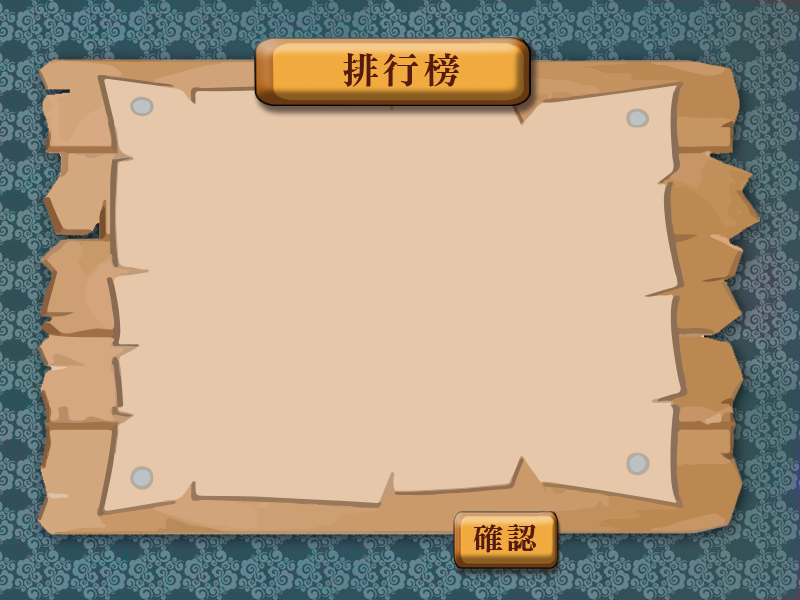
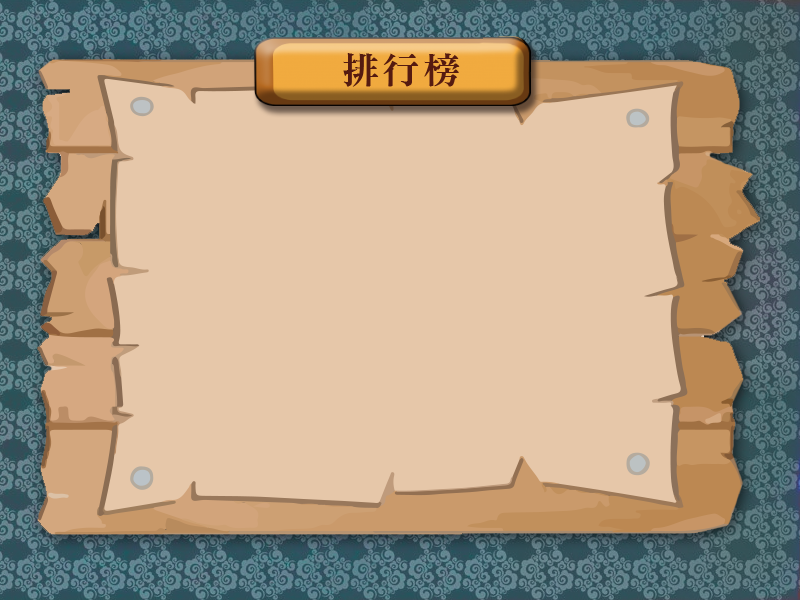
Add the button zoom in/out back and forth.

Changed region(s): [[0.5625, 0.84, 0.7188, 0.96]]

diff --git a/css/dragon.css b/css/dragon.css
@@ -201,7 +201,7 @@ input:focus{
 }
 
 .stage-rules{
-  background-image: url(../images/03-rules-background.jpg);
+  background-image: url(../images/03-rules-background.png);
 }
 
 .stage-bomb{
@@ -287,6 +287,10 @@ input:focus{
   bottom: 11px;
   width: 50px;
   cursor: pointer;
+  -webkit-animation: zoombacksmall 1.5s ease 0s;
+  animation: zoombacksmall 1.5s ease 0s;
+  -webkit-animation-iteration-count:infinite;
+  animation-iteration-count:infinite;
 }
 
 .message-text{
@@ -319,15 +323,27 @@ input:focus{
 .button-rules-enter{
   left: 259px;
   top: 515px;
-  width: 277px;
-  height: 69px;
+  width: 286px;
+  height: 79px;
+  background: url(../images/03-rules-button.png);
+  /*background-size: 100% auto;*/
+  /*background-position: center center;*/
+  -webkit-animation: zoomback 1.5s ease 0s;
+  animation: zoomback 1.5s ease 0s;
+  -webkit-animation-iteration-count:infinite;
+  animation-iteration-count:infinite;
 }
 
 .button-intro-enter{  
-  left:272px;
-  top:500px;
-  width:277px;
-  height:67px;
+  left: 272px;
+  top: 498px;
+  width: 283px;
+  height: 78px;
+  background: url(../images/01-intro-button.png);
+  -webkit-animation: zoomback 1.5s ease 0s;
+  animation: zoomback 1.5s ease 0s;
+  -webkit-animation-iteration-count:infinite;
+  animation-iteration-count:infinite;
 }
 
 .background-temp{
@@ -405,6 +421,10 @@ div[class^=bomb]{
   left: 197px;
   top: 331px;
   z-index: 100;
+  -webkit-animation: zoomback 1.5s ease 0s;
+  animation: zoomback 1.5s ease 0s;
+  -webkit-animation-iteration-count:infinite;
+  animation-iteration-count:infinite;
 }
 
 .b-next-button{
@@ -505,17 +525,23 @@ div[class^=bomb]{
   cursor: pointer;
   position: absolute;
   width: 130px;
-  height: 72px;
+  height: 78px;
+  -webkit-animation: zoomback 1.5s ease 0s;
+  animation: zoomback 1.5s ease 0s;
+  -webkit-animation-iteration-count:infinite;
+  animation-iteration-count:infinite;
 }
 
 .question-yes{
-  left: 222px;
-  top: 514px;
+  left: 212px;
+  top: 504px;
+  background: url(../images/05-question-yes.png);
 }
 
 .question-no{
-  left: 452px;
-  top: 514px;
+  left: 442px;
+  top: 504px;
+  background: url(../images/05-question-no.png);
 }
 
 .question-title{
@@ -572,7 +598,11 @@ div[class^=bomb]{
   height: 62px;
   left: 453px;
   top: 511px;
-  /*background:black;*/
+  background:url(../images/07-leader-button.png);
+  -webkit-animation: zoomback 1.5s ease 0s;
+  animation: zoomback 1.5s ease 0s;
+  -webkit-animation-iteration-count:infinite;
+  animation-iteration-count:infinite;
 }
 
 .leader-wrap{
@@ -720,3 +750,12 @@ div[class^=bomb]{
 @-webkit-keyframes backandforthOld { 0%{left:18%;} 50%{left:69%;} 100%{left:18%;}}
 
 @keyframes backandforthOld {0%{left:18%;} 50%{left:69%;} 100%{left:18%;}}
+
+@-webkit-keyframes zoomback { 0%{transform: scale(1.00);} 50%{transform: scale(1.03);} 100%{transform: scale(1.00);}}
+
+@keyframes zoomback {0%{transform: scale(1.00);} 50%{transform: scale(1.03);} 100%{transform: scale(1.00);}}
+
+@-webkit-keyframes zoombacksmall { 0%{transform: scale(1.00);} 50%{transform: scale(1.07);} 100%{transform: scale(1.00);}}
+
+@keyframes zoombacksmall {0%{transform: scale(1.00);} 50%{transform: scale(1.07);} 100%{transform: scale(1.00);}}
+
